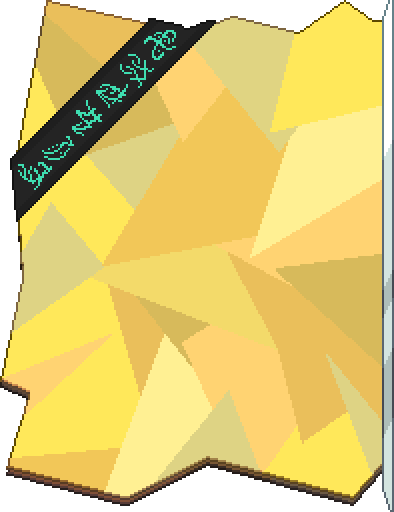
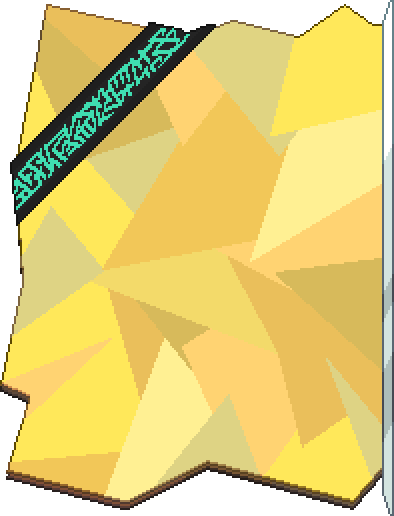
alert colors + better encyc sprites + i forget

diff --git a/Content/UI/NewEntryAlert/NewEntryAlertUI.cs b/Content/UI/NewEntryAlert/NewEntryAlertUI.cs
@@ -184,12 +184,34 @@ namespace Radiance.Content.UI.NewEntryAlert
                     }
                     break;
                 }
+                Color color = Color.White;
+                switch(alert.entry.category)
+                {
+                    case EntryCategory.Influencing:
+                        color = CommonColors.InfluencingColor;
+                        break;
+                    case EntryCategory.Transmutation:
+                        color = CommonColors.TransmutationColor;
+                        break;
+                    case EntryCategory.Apparatuses:
+                        color = CommonColors.ApparatusesColor;
+                        break;
+                    case EntryCategory.Instruments:
+                        color = CommonColors.InstrumentsColor;
+                        break;
+                    case EntryCategory.Pedestalworks:
+                        color = CommonColors.PedestalworksColor;
+                        break;
+                    case EntryCategory.Phenomena:
+                        color = CommonColors.PhenomenaColor;
+                        break;
+                }
                 alert.pos.X = drawPos.X - 230;
                 alert.pos.Y = drawPos.Y + lerpedPos + startingDistance + distBetweenEntries * (i + 1);
                 if (alert.alpha < 255)
                     alert.alpha = 255 * ((alert.alpha + 0.15f * alert.alpha + 0.15f) / 255);
                 if (!Main.playerInventory)
-                    Utils.DrawBorderStringFourWay(spriteBatch, font, alert.entry.displayName, alert.pos.X, alert.pos.Y, Color.White * (alert.alpha / 255), Color.Black * (alert.alpha / 255), Vector2.UnitY * font.MeasureString(alert.entry.displayName).Y, 1);
+                    Utils.DrawBorderStringFourWay(spriteBatch, font, alert.entry.displayName, alert.pos.X, alert.pos.Y, color * (alert.alpha / 255), color.GetDarkColor() * (alert.alpha / 255), Vector2.UnitY * font.MeasureString(alert.entry.displayName).Y, 1);
             }
             if (unlockedEntries.Count > 0 && Main.playerInventory && !hasTwoExtraAccessorySlots)
             {

diff --git a/Content/EncycloradiaEntries/Influencing/GlowtusEntry.cs b/Content/EncycloradiaEntries/Influencing/GlowtusEntry.cs
@@ -35,9 +35,9 @@ namespace Radiance.Content.EncycloradiaEntries
             { 
                 "Fallen Stars are great, but not without their flaws. They only fall at night, and if you try and throw any to the ground during daytime, they all vanish into a puff of stardust. These problems prove to be definite issues for anyone trying to create ".BWSnippet(),
                 "Radiance. |".DarkColorSnippet(CommonColors.RadianceColor1),
-                "There exists, however, another way of creating".BWSnippet(),
+                "There exists, however, another way of creating ".BWSnippet(),
                 "Radiance, ".DarkColorSnippet(CommonColors.RadianceColor1),
-                "through the use of natural flora.".BWSnippet(),
+                "through the use of natural flora. ".BWSnippet(),
                 "Glowtuses ".DarkColorSnippet(CommonColors.ContextColor),
                 "are unique herbs that grow naturally at extremely high elevations, typically on ".BWSnippet(),
                 "unnatural floating landmasses. |".DarkColorSnippet(CommonColors.ContextColor),
@@ -52,7 +52,7 @@ namespace Radiance.Content.EncycloradiaEntries
                 "have their own seeds that drop when they are blooming, which may be planted on grass, pots, or Planter Boxes. |".BWSnippet(),
                 "The conditions for a ".BWSnippet(),
                 "Glowtus ".DarkColorSnippet(CommonColors.ContextColor),
-                "to bloom are strange. The exact down-to-the-molecule alignment to various major stars that a specific plant has will determine whether it gets primed by daytime, or nighttime. |".BWSnippet(),
+                "to bloom are strange. The exact molecular alignment between a plant and specific stars will determine whether it gets primed by daytime, or nighttime. |".BWSnippet(),
                 "A decorative, hanging potted variant of the flower also exists, if it is to your liking for aesthetical purposes.".BWSnippet(),
             }
             } );

diff --git a/Content/EncycloradiaEntries/Phenomena/HardLightEntry.cs b/Content/EncycloradiaEntries/Phenomena/HardLightEntry.cs
@@ -71,17 +71,17 @@ namespace Radiance.Content.EncycloradiaEntries
                 "You may have already been able to guess that if there's a cold variant of ".BWSnippet(),
                 "Hard Light, ".DarkColorSnippet(CommonColors.RadianceColor1),
                 "then there must be a normal variant too, right? | Wrong. |".BWSnippet(),
-                "Instead, the other variant of it is a sharp contrast, taking the form of, ".BWSnippet(),
+                "Instead, the other variant of it is a sharp contrast, taking the form of ".BWSnippet(),
                 "Searing Hard Light, ".DarkColorSnippet(CommonColors.RadianceColor1),
-                "an ephemeral, plasma-esque material that exists exclusively at laughably high temperatures. |".BWSnippet(),
+                "an ephemeral, plasma-esque material that exists exclusively at laughably high temperatures. ".BWSnippet(),
                 "SHL ".DarkColorSnippet(CommonColors.RadianceColor1),
                 "manifests when ".BWSnippet(),
                 "Radiance ".DarkColorSnippet(CommonColors.RadianceColor1),
                 "is simultaneously compressed and superheated, resulting in the entirety of it jetting out in a thin pane through any egresses it possibly can. |".BWSnippet(),
-                "The properties exhibited by ".BWSnippet(),
+                "The temperature of ".BWSnippet(),
                 "SHL ".DarkColorSnippet(CommonColors.RadianceColor1),
-                "are rather obvious. The temperature of a formation itself clocks in at around six thousand degrees Kelvin, while the air around the edges of one come in at just about three thousand less. ".BWSnippet()
-
+                "clocks in at around six thousand degrees Kelvin, while the air around the edges of a formation clock in at just about three thousand less. |".BWSnippet(),
+                "".BWSnippet()
             }
             } );
         }

diff --git a/Content/EncycloradiaEntries/CategoryEntries/InfluencingEntry.cs b/Content/EncycloradiaEntries/CategoryEntries/InfluencingEntry.cs
@@ -28,14 +28,14 @@ namespace Radiance.Content.EncycloradiaEntries
                     "A ".BWSnippet(),
                     "flower ".DarkColorSnippet(CommonColors.InfluencingColor),
                     "blooming from the soil, bearing new life into the world it exists in. |".BWSnippet(),
-                    "Influencing".DarkColorSnippet(CommonColors.InfluencingColor),
+                    "Influencing ".DarkColorSnippet(CommonColors.InfluencingColor),
                     "is the art of manipulating ".BWSnippet(),
-                    "Radiance".DarkColorSnippet(CommonColors.RadianceColor1),
-                    "with cells, rays, pedestals, and other similar means. | Within this section you will find anything and everything directly related to moving and storing".BWSnippet(),
-                    "Radiance".DarkColorSnippet(CommonColors.RadianceColor1),
-                    "in and throughout".BWSnippet(),
-                    "Apparatuses".DarkColorSnippet(CommonColors.ApparatusesColor),
-                    "and".BWSnippet(),
+                    "Radiance ".DarkColorSnippet(CommonColors.RadianceColor1),
+                    "with cells, rays, pedestals, and other similar means. | Within this section you will find anything and everything directly related to moving and storing ".BWSnippet(),
+                    "Radiance ".DarkColorSnippet(CommonColors.RadianceColor1),
+                    "in and throughout ".BWSnippet(),
+                    "Apparatuses ".DarkColorSnippet(CommonColors.ApparatusesColor),
+                    "and ".BWSnippet(),
                     "Instruments.".DarkColorSnippet(CommonColors.InstrumentsColor)
                 }
             });

diff --git a/Core/RadianceDrawing.cs b/Core/RadianceDrawing.cs
@@ -183,7 +183,7 @@ namespace Radiance.Core
             rayEffect.Parameters["thickness"].SetValue(height);
             rayEffect.Parameters["scale"].SetValue(1);
 
-            SamplerState samplerState = Main.DefaultSamplerState;
+            SamplerState samplerState = mode == DrawingMode.UI ? SamplerState.LinearClamp : Main.DefaultSamplerState;
             DepthStencilState depthStencilState = DepthStencilState.None;
             RasterizerState rasterizerState = mode == DrawingMode.Tile ? RasterizerState.CullNone : mode == DrawingMode.Item || mode == DrawingMode.Projectile ? RasterizerState.CullCounterClockwise : Main.Rasterizer;
             Matrix matrix = mode == DrawingMode.Item || mode == DrawingMode.Projectile ? Main.GameViewMatrix.ZoomMatrix : mode == DrawingMode.UI ? Main.UIScaleMatrix : mode == DrawingMode.Beam ? Main.GameViewMatrix.TransformationMatrix : Matrix.Identity;
@@ -202,7 +202,7 @@ namespace Radiance.Core
             );
 
             Main.spriteBatch.End();
-            Main.spriteBatch.Begin(SpriteSortMode.Immediate, BlendState.AlphaBlend, Main.DefaultSamplerState, DepthStencilState.None, Main.Rasterizer, null, matrix);
+            Main.spriteBatch.Begin(SpriteSortMode.Immediate, BlendState.AlphaBlend, samplerState, DepthStencilState.None, Main.Rasterizer, null, matrix);
         }
         //todo: move all the ui stuff to a uistate
         public static void DrawSoftGlow(Vector2 worldCoords, Color color, float scale, DrawingMode mode)

diff --git a/Core/PotionColors.cs b/Core/PotionColors.cs
@@ -81,17 +81,17 @@ namespace Radiance.Core
                         color = CommonColors.ScarletColor;
                         texture = ModContent.Request<Texture2D>("Radiance/Content/ExtraTextures/ScarletIcon").Value;
                     }
-                    if (CeruleanPotions.Contains(item.buffType))
+                    else if (CeruleanPotions.Contains(item.buffType))
                     {
                         color = CommonColors.CeruleanColor;
                         texture = ModContent.Request<Texture2D>("Radiance/Content/ExtraTextures/CeruleanIcon").Value;
                     }
-                    if (VerdantPotions.Contains(item.buffType))
+                    else if (VerdantPotions.Contains(item.buffType))
                     {
                         color = CommonColors.VerdantColor;
                         texture = ModContent.Request<Texture2D>("Radiance/Content/ExtraTextures/VerdantIcon").Value;
                     }
-                    if (MauvePotions.Contains(item.buffType))
+                    else if (MauvePotions.Contains(item.buffType))
                     {
                         color = CommonColors.MauveColor;
                         texture = ModContent.Request<Texture2D>("Radiance/Content/ExtraTextures/MauveIcon").Value;

diff --git a/Core/Encycloradia/EncycloradiaUI.cs b/Core/Encycloradia/EncycloradiaUI.cs
@@ -431,8 +431,8 @@ namespace Radiance.Core.Encycloradia
                                 yDrawOffset += 24;
                                 continue;
                             }
-                            Utils.DrawBorderStringFourWay(spriteBatch, font, word, drawPos.X + xDrawOffset + 61 - (right ? 0 : (yDrawOffset / 23)), drawPos.Y + yDrawOffset + 56, ts.color, ts.backgroundColor, Vector2.Zero, 1);
-                            xDrawOffset += font.MeasureString(word + (i == words.Length - 1 ? "" : " ")).X;
+                            Utils.DrawBorderStringFourWay(spriteBatch, font, word, drawPos.X + xDrawOffset + 61 - (right ? 0 : (yDrawOffset / 23)), drawPos.Y + yDrawOffset + 56, ts.color, ts.backgroundColor, Vector2.Zero, Radiance.encycolradiaLineScale);
+                            xDrawOffset += font.MeasureString(word + (i == words.Length - 1 ? "" : " ")).X * Radiance.encycolradiaLineScale;
                         }
                     }
                 }

diff --git a/Core/Encycloradia/EncycloradiaSystem.cs b/Core/Encycloradia/EncycloradiaSystem.cs
@@ -148,7 +148,7 @@ namespace Radiance.Core.Encycloradia
                 List<CustomTextSnippet> snippetsToAddToPage = new();
                 List<string> stringList = new();
                 List<string> lineList = new();
-                float lineLength = textDistance;
+                float lineLength = textDistance / Radiance.encycolradiaLineScale;
                 int lineCount = 0;
                 for (int h = 0; h < page.text.Length; h++)
                 {
@@ -200,8 +200,7 @@ namespace Radiance.Core.Encycloradia
                                 i--;
                                 continue;
                             }
-                            else
-                                stringList.Add("|");
+                            stringList.Add("|");
                         }
                         stringList.Add(word);
                         if (i == snippet.text.Split().Length - 1)

diff --git a/Core/RadianceRay.cs b/Core/RadianceRay.cs
@@ -148,11 +148,8 @@ namespace Radiance.Core
 
         public void SnapToPosition(Vector2 start, Vector2 end) //Snaps an endpoint to the center of the tile
         {
-            Vector2 objectiveStartPosition = SnapToCenterOfTile(start);
-            startPos = Vector2.Lerp(startPos, objectiveStartPosition, 0.5f);
-
-            Vector2 objectiveEndPosition = SnapToCenterOfTile(end);
-            endPos = Vector2.Lerp(endPos, objectiveEndPosition, 0.5f);
+            startPos = Vector2.Lerp(startPos, SnapToCenterOfTile(start), 0.5f);
+            endPos = Vector2.Lerp(endPos, SnapToCenterOfTile(end), 0.5f);
         }
 
         public void MoveRadiance((RadianceUtilizingTileEntity, IOEnum) start, (RadianceUtilizingTileEntity, IOEnum) end) //It's called MoveRadiance but it just returns an entity to grab from/to and if the side of the ray is input or output

diff --git a/Content/EncycloradiaEntries/CategoryEntries/ApparatusesEntry.cs b/Content/EncycloradiaEntries/CategoryEntries/ApparatusesEntry.cs
@@ -29,7 +29,7 @@ namespace Radiance.Content.EncycloradiaEntries
                     "of unknown potential and workings that remains intriguing to those who gaze upon it. |".BWSnippet(),
                     "Apparatuses ".DarkColorSnippet(CommonColors.ApparatusesColor),
                     "are tiles that utilize ".BWSnippet(),
-                    "Radiance".DarkColorSnippet(CommonColors.RadianceColor1),
+                    "Radiance ".DarkColorSnippet(CommonColors.RadianceColor1),
                     "to perform various actions. |".BWSnippet(),
                     "Within this section you will find most ".BWSnippet(),
                     "Radiance-utilizing ".DarkColorSnippet(CommonColors.RadianceColor1),

diff --git a/Utilities/CommonColors.cs b/Utilities/CommonColors.cs
@@ -1,4 +1,5 @@
 using Microsoft.Xna.Framework;
+using System;
 
 namespace Radiance.Utilities
 {
@@ -25,6 +26,6 @@ namespace Radiance.Utilities
         public static readonly Color ColdHLColor = new(0, 255, 221);
         public static readonly Color SearingHLColor = new(255, 119, 0);
 
-        public static Color GetDarkColor(this Color color, float divisor = 5) => new Color(color.R / divisor, color.G / divisor, color.B / divisor, color.A);
+        public static Color GetDarkColor(this Color color, float divisor = 5) => new Color((int)(color.R / divisor), (int)(color.G / divisor), (int)(color.B / divisor), color.A);
     }
 }

diff --git a/Radiance.cs b/Radiance.cs
@@ -11,6 +11,7 @@ namespace Radiance
 
 		public const int maxDistanceBetweenPoints = 1000;
 		public const int maxRays = 1000;
+        public const float encycolradiaLineScale = 0.9f;
         public static RadianceRay[] radianceRay = new RadianceRay[maxRays + 1];
 
         public static Texture2D blankTexture;
